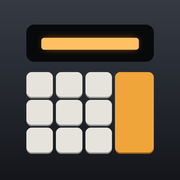
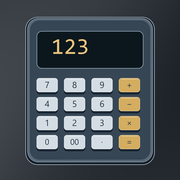
Add files via upload

diff --git a/index.html b/index.html
@@ -12,7 +12,7 @@
 <link rel="manifest" href="manifest.webmanifest">
 <link rel="apple-touch-icon" href="apple-touch-icon.png">
 <link rel="icon" type="image/png" href="icon-192.png">
-<title>実務電卓 v4</title>
+<title>実務電卓 v5</title>
 <style>
 /* Layout: iPhone縦画面1枚に 表示部・スイッチ・キーを収める。テープは下から出るシート */
 :root{
@@ -153,6 +153,30 @@ body{background:#111419}
  .lcd{min-height:116px}.chip{min-height:36px}
 }
 @media(max-width:350px){.app{padding-left:10px;padding-right:10px}.chip{font-size:11px;padding:7px 4px}.seg label{padding-left:6px;padding-right:6px}.sg{gap:5px}.sw{gap:8px}.keys{gap:7px}.k.mem,.k.small{font-size:13px}}
+
+
+/* v5: fit the available viewport before distributing key height. */
+.app{background:repeating-linear-gradient(0deg,#ffffff02 0 1px,transparent 1px 3px),linear-gradient(125deg,#41474f,#292e35 28%,#353b42 60%,#20262d);border-color:#78808a;box-shadow:inset 0 1px 0 #c9d0d766,inset 1px 0 0 #ffffff20,inset -1px 0 0 #0008,0 20px 60px #0005}
+.lcd{background:linear-gradient(160deg,#111c20,#080f12);border:1px solid #080b0e;box-shadow:0 0 0 1px #82909c,0 0 0 3px #1a2027,inset 0 3px 8px #0009}
+.k{border-top-color:#a8b0ba70;border-left-color:#9ca6b240;border-right-color:#141a24;border-bottom-color:#111821;background:linear-gradient(175deg,#66717e 0%,#495461 9%,#3a4551 48%,#333e49 95%);box-shadow:inset 0 1px 0 #e8f0ff40,inset 1px 0 0 #ffffff12,inset -1px -2px 0 #0004,0 3px 0 #151c24,0 5px 6px #0005;text-shadow:0 1px 1px #0007}
+.k.num{background:linear-gradient(170deg,#f8f9f9 0%,#dfe4e8 12%,#c5cdd4 49%,#e0e5e9 92%,#aeb8c1 100%);color:#202a34;border-top-color:#ffffff;border-left-color:#e4ebf0;border-right-color:#82909e;border-bottom-color:#7c8996;box-shadow:inset 0 1px 0 #fff,inset 1px 0 0 #fff8,inset -1px -2px 0 #71819150,0 3px 0 #687583,0 5px 6px #0005;text-shadow:0 1px 0 #ffffffaa}
+.k.op{background:linear-gradient(175deg,#8291a1,#5b6d7f 13%,#42566b 65%,#4c6075);color:#eef3f8}
+.k.clear{background:linear-gradient(175deg,#d38776,#ad6555 12%,#8d4a3d 80%,#9c584a);border-top-color:#e3b1a690;box-shadow:inset 0 1px 0 #f7cec540,inset -1px -2px 0 #0003,0 3px 0 #54332b,0 5px 6px #0004}
+.k.eq{background:linear-gradient(170deg,#ffe0a0,#e8bf70 14%,#c99b45 65%,#e5b65f 94%);color:#352915;border-top-color:#ffe9bf;border-left-color:#f4d398;border-right-color:#997335;border-bottom-color:#8d692d;box-shadow:inset 0 1px 0 #fff5,inset -1px -2px 0 #7b572440,0 3px 0 #89652c,0 5px 7px #0005;text-shadow:0 1px 0 #ffe7b580}
+.k:active,.k.hit{transform:translateY(2px);box-shadow:inset 0 2px 4px #0004,0 1px 0 #18212a;filter:brightness(.94)}
+@media(max-width:440px),(pointer:coarse){
+ html,body{height:100%;min-height:0}
+ .app{height:100vh;height:100dvh;min-height:calc(610px + env(safe-area-inset-top,0px) + env(safe-area-inset-bottom,0px));gap:8px;padding:calc(env(safe-area-inset-top,0px) + 8px) 12px calc(env(safe-area-inset-bottom,0px) + 8px);border:0;border-radius:0}
+ .top{gap:6px}.top b{font-size:14px;line-height:20px;padding:0;letter-spacing:.12em}
+ .chip{min-height:32px;line-height:18px;font-size:11px;padding:6px 7px}
+ .lcd{min-height:96px;padding:9px 13px 10px;margin:2px 1px}
+ .val{--valfs:clamp(34px,10.5vw,44px);line-height:1.08;padding:3px 0 4px}
+ .ind{height:16px}.sub{line-height:14px;min-height:14px}
+ .sw{gap:6px 10px}.sg{gap:7px}.seg{padding:2px}.seg label{line-height:20px;padding-top:1px;padding-bottom:1px}#swTAB label{padding-top:1px;padding-bottom:1px}
+ .keys{min-height:350px;gap:7px;grid-template-rows:repeat(3,minmax(44px,.72fr)) repeat(4,minmax(44px,1.2fr));}
+ .k{padding:3px 2px;border-radius:10px}.k.num{font-size:clamp(28px,8.6vw,36px);border-radius:11px}.k.op{font-size:27px}.k.eq{font-size:34px}.k.mem,.k.small,.k.clear{font-size:14px}
+ .key-hint{display:none}
+}
 
 </style>
 </head>

diff --git a/sw.js b/sw.js
@@ -1,5 +1,5 @@
 // Every release must use a new cache version.
-const VERSION='jitsumu-v4-20261010-layout1';
+const VERSION='jitsumu-v5-20261010-metal1';
 const FILES=['./','./index.html','./manifest.webmanifest','./apple-touch-icon.png','./icon-192.png','./icon-512.png'];
 self.addEventListener('install',e=>e.waitUntil(caches.open(VERSION).then(c=>c.addAll(FILES))));
 self.addEventListener('message',e=>{if(e.data?.type==='ACTIVATE')self.skipWaiting()});
